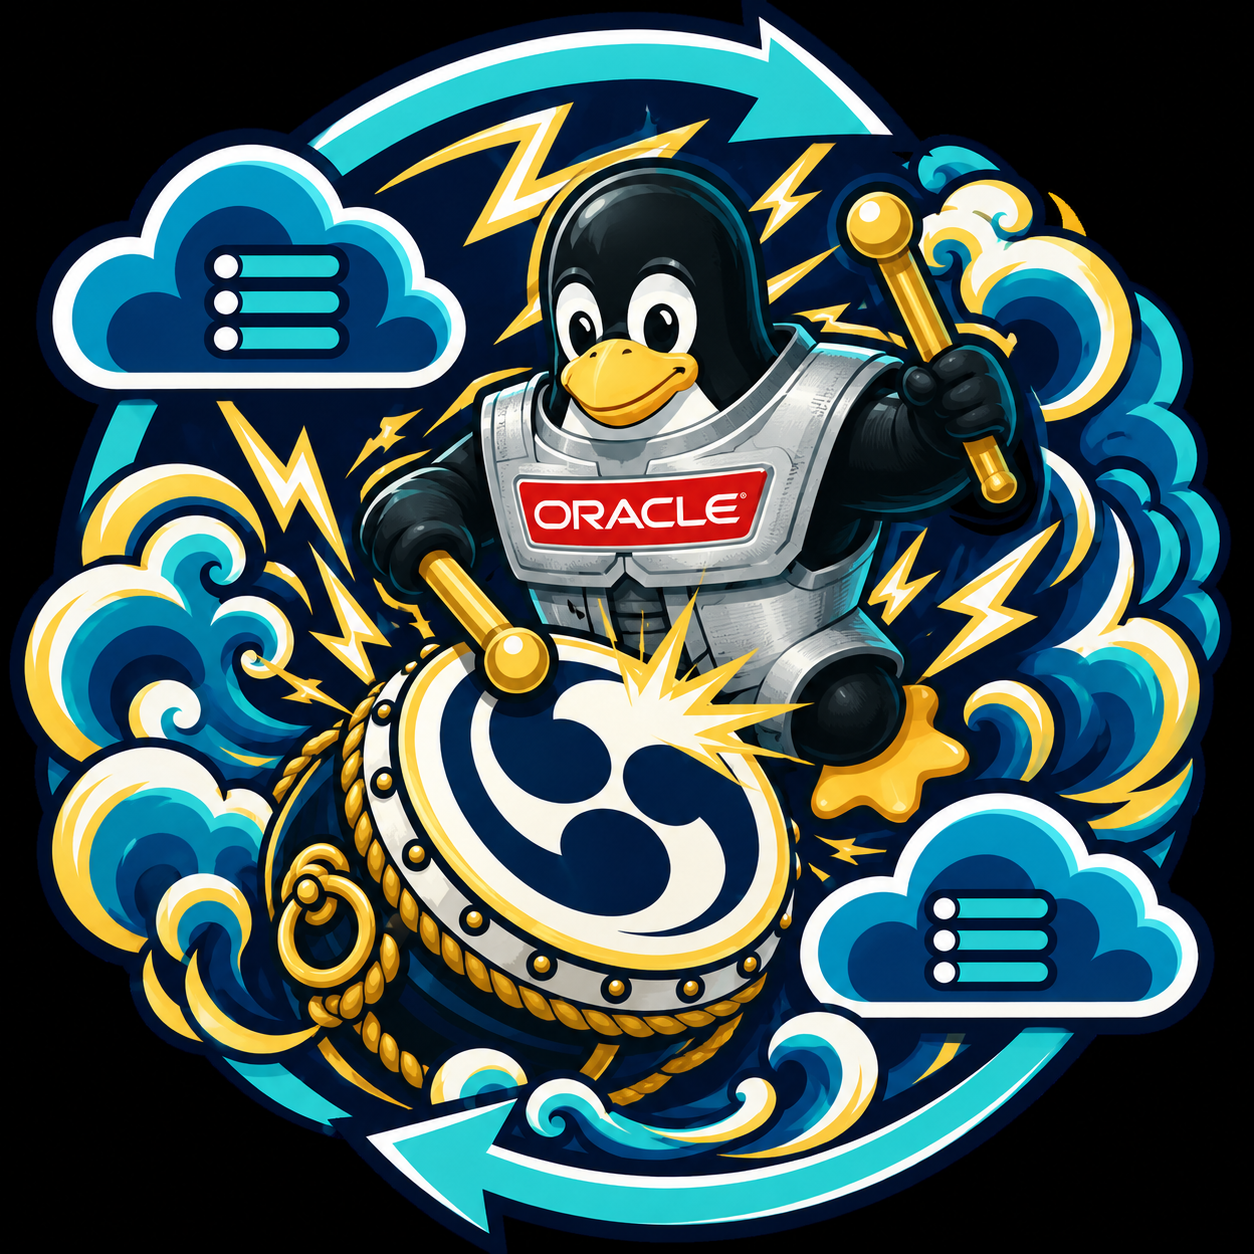
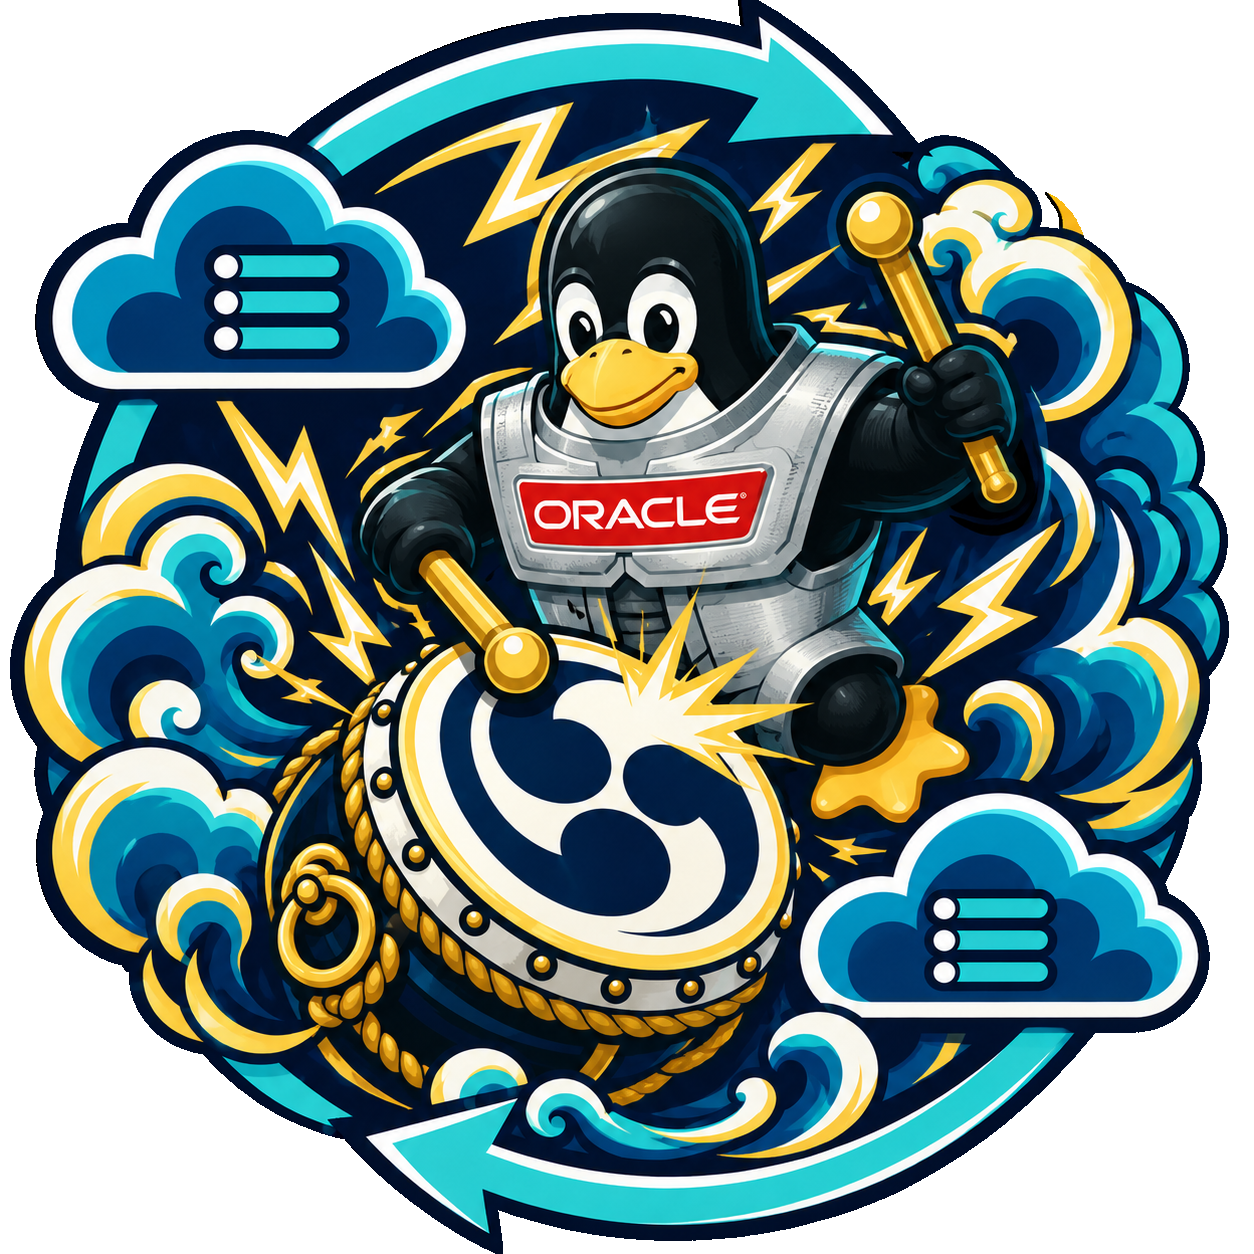
Make Raijin about artwork transparent

Changed region(s): [[0.0, 0.0, 1.0, 1.0]]

diff --git a/app/static/index.html b/app/static/index.html
@@ -36,7 +36,7 @@
   </main>
 
   <main id="view-about" class="view">
-  <section class="card about-hero"><img src="/static/assets/images/raijin-oracle-about.png" alt="Emblema detalhado do RAIJIN"><div><p class="about-eyebrow">Plataforma de migração de dados</p><h2 class="about-title">RAIJIN</h2><span class="about-version">Versão 0.4.0</span><p>RAIJIN conduz migrações controladas de AWS S3 para OCI Object Storage, com inventário persistente, ondas operacionais, retomada segura, rastreabilidade e verificação criptográfica de integridade.</p><p class="about-details">Inspirado em Raijin, a divindade japonesa do trovão, o emblema representa força, movimento e condução precisa: cada objeto sai da origem com evidências de transferência e chega ao destino preservando sua integridade operacional.</p><p><a href="https://github.com/wuilber002/copy-s3-to-oci" target="_blank" rel="noopener noreferrer">Ver projeto no GitHub ↗</a></p></div></section>
+  <section class="card about-hero"><img src="/static/assets/images/raijin-oracle-about.png?v=2" alt="Emblema detalhado do RAIJIN"><div><p class="about-eyebrow">Plataforma de migração de dados</p><h2 class="about-title">RAIJIN</h2><span class="about-version">Versão 0.4.0</span><p>RAIJIN conduz migrações controladas de AWS S3 para OCI Object Storage, com inventário persistente, ondas operacionais, retomada segura, rastreabilidade e verificação criptográfica de integridade.</p><p class="about-details">Inspirado em Raijin, a divindade japonesa do trovão, o emblema representa força, movimento e condução precisa: cada objeto sai da origem com evidências de transferência e chega ao destino preservando sua integridade operacional.</p><p><a href="https://github.com/wuilber002/copy-s3-to-oci" target="_blank" rel="noopener noreferrer">Ver projeto no GitHub ↗</a></p></div></section>
   <section class="card"><h2>Princípios da plataforma</h2><div class="grid"><div class="metric"><span>Controle</span><b>Ondas persistentes</b><p class="hint">Planejamento, fila, retomada e histórico sobrevivem a reinicializações da VM.</p></div><div class="metric"><span>Eficiência</span><b>Chamadas minimizadas</b><p class="hint">Discovery e restores são orquestrados para reduzir operações cobradas na AWS.</p></div><div class="metric"><span>Confiança</span><b>Integridade comprovada</b><p class="hint">A cópia registra evidências SHA-256; auditoria profunda fica disponível sob demanda.</p></div></div></section>
   </main>
 
